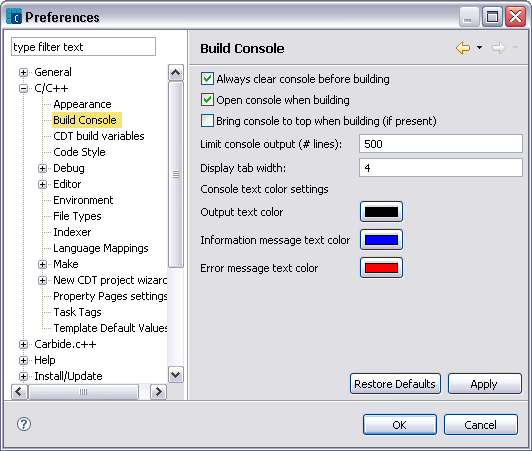
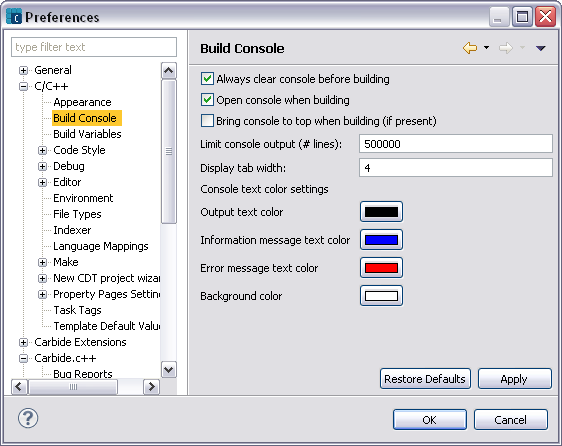
updated build project images and text
--HG--
branch : RCL_2_4

Changed region(s): [[0.0, 0.0, 1.0, 0.991]]

diff --git a/core/com.nokia.carbide.cpp.doc.user/html/tasks/projects/prj_build.htm b/core/com.nokia.carbide.cpp.doc.user/html/tasks/projects/prj_build.htm
@@ -24,7 +24,7 @@
 <div class="step">
   <h4>Building a Project</h4>
   <ul>
-    <li>Right-click the project name in the C/C++ Projects view and select Build Project (Figure 1) </li>
+    <li>Right-click the project name in the Project Explorer view and select Build Project (Figure 1) </li>
   </ul>
   <ol>
     <p></p>
@@ -39,7 +39,7 @@
   </ul>
   <ul>
     <li>Click the Build icon in the tool bar (Figure 2) to build the current build configuration </li>
-    <p align="center"><img src="images/wnd_build_config_select_tgt.png" width="321" height="69" /></p>
+    <p align="center"><img src="images/wnd_build_config_select_tgt.png" width="341" height="128" /></p>
     <p class="figure">Figure 2 - Build icon </p>
     <p>or
     </p>
@@ -48,16 +48,16 @@
     <li>Select a build configuration using the Build icon&#8217;s dropdown list in the tool bar (Figure 2)</li>
   </ul>
   <ol>
-    <p>Carbide.c++ builds the project. During the build a build dialog will appear on screen and a task bar is shown at the bottom right of the perspective when the build is run in the background. All output as the build progresses is shown in the Console view and all build errors and warnings appear in the Problems view.</p>
+    <p>Carbide.c++ builds the project. A build dialog  and a task bar appear during a build process. All build output  is shown in the Console view while build errors and warnings appear in the Problems view.</p>
     <p>Whether a full build or incremental build is requested, Carbide forwards the request to the SDK make system. The SDK make system determines if anything needs to be
-      built. So Carbide will always check that makefiles are up-to-date and
-    check dependencies.</p>
-    <p>A project is also built if you make a change to a project and then click <b>Debug</b>. It may be useful to automatically save modified resources before a manual build process by enabling the <b>Save automatically before build</b> option in the <b>Window &gt; Preferences &gt; General &gt;</b> <img src="../../images/command_link.png" width="16" height="12"> <a class="command-link" href='javascript:executeCommand("org.eclipse.ui.window.preferences(preferencePageId=org.eclipse.ui.preferencePages.Workbench)")'> Workspace</a> preference panel. </p>
+      built. Carbide  always checks that makefiles are up-to-date and
+    dependencies present.</p>
+    <p>Project is also built if you make a change to it and then click <b>Debug</b>. It may be useful to automatically save modified resources before a manual build process by enabling the <b>Save automatically before build</b> option in the <b>Window &gt; Preferences &gt; General &gt;</b> <img src="../../images/command_link.png" width="16" height="12"> <a class="command-link" href='javascript:executeCommand("org.eclipse.ui.window.preferences(preferencePageId=org.eclipse.ui.preferencePages.Workbench)")'> Workspace</a> preference panel. </p>
     <p class="note"><b>NOTE</b> If you want to turn off building before launching, uncheck the <b>Build (if required) before launching</b> option in the <b>Window &gt; Preferences &gt; Run/Debug &gt;<img src="../../images/command_link.png" width="16" height="12"> <a class="command-link" href='javascript:executeCommand("org.eclipse.ui.window.preferences(preferencePageId=org.eclipse.debug.ui.LaunchingPreferencePage)")'> Launching</a></b> preference panel.</p>
   </ol>
-  <p>When performing a build, output is displayed in the Console window. If you do not want to clear the console before each build you need to uncheck the option <span class="code">Always clear console before building</span> in the Build Console panel. This option is enabled by default. You can access this panel by selecting <b>Window &gt; Preferences &gt; C/C++ &gt;<img src="../../images/command_link.png" width="16" height="12"> <a class="command-link" href='javascript:executeCommand("org.eclipse.ui.window.preferences(preferencePageId=org.eclipse.cdt.ui.preferneces.CBuildConsolePreferernces)")'> Build Console</a></b> preference panel (figure 2).</p>
-  <p>Not clearing the console can be useful when you are performing multiple builds, such as a regular project build, building a project package (.pkg) file, and building a ROM image. For example, if you do not clear the console before each build, then a subsequent build will not overwrite information from a previous build.</p>
-<p align="center"><img src="images/build_console.png" width="532" height="451" /></p>
+  <p>When performing a build, output is displayed in the Console window. If you do not want to clear the console before each build you need to uncheck the option <b>Always clear console before building</b> in the <b>Build Console</b> panel. This option is enabled by default. You can access this panel by selecting <b>Window &gt; Preferences &gt; C/C++ &gt;<img src="../../images/command_link.png" width="16" height="12"> <a class="command-link" href='javascript:executeCommand("org.eclipse.ui.window.preferences(preferencePageId=org.eclipse.cdt.ui.preferneces.CBuildConsolePreferernces)")'> Build Console</a></b> preference panel (figure 2).</p>
+  <p>Not clearing the console is useful when you are performing multiple builds, such as a regular project build, building a project package (.pkg) file, and building a ROM image. For example, if you do not clear the console before each build, then a subsequent build will not overwrite information from a previous build.</p>
+<p align="center"><img src="images/build_console.png" width="562" height="446" /></p>
 <p align="left" class="figure">Figure 4 - Build Console Preference Panel</p>
 <p>&nbsp;</p>
 </div>
@@ -77,7 +77,7 @@
     <li><a href="../../reference/menus/build_pkg_file.htm">Build Package (.pkg) File</a></li>
     <li><a href="../ImportingProjects.html">Importing BLD.INF Files</a></li>
   </ul>
-  <div id="footer">Copyright &copy; 2009 Nokia Corporation and/or its subsidiary(-ies). All rights reserved. <br>License: <a href="http://www.eclipse.org/legal/epl-v10.html">http://www.eclipse.org/legal/epl-v10.html</a></div>
+  <div id="footer">Copyright &copy; 2010 Nokia Corporation and/or its subsidiary(-ies). All rights reserved. <br>License: <a href="http://www.eclipse.org/legal/epl-v10.html">http://www.eclipse.org/legal/epl-v10.html</a></div>
 
 </body>
 </html>
